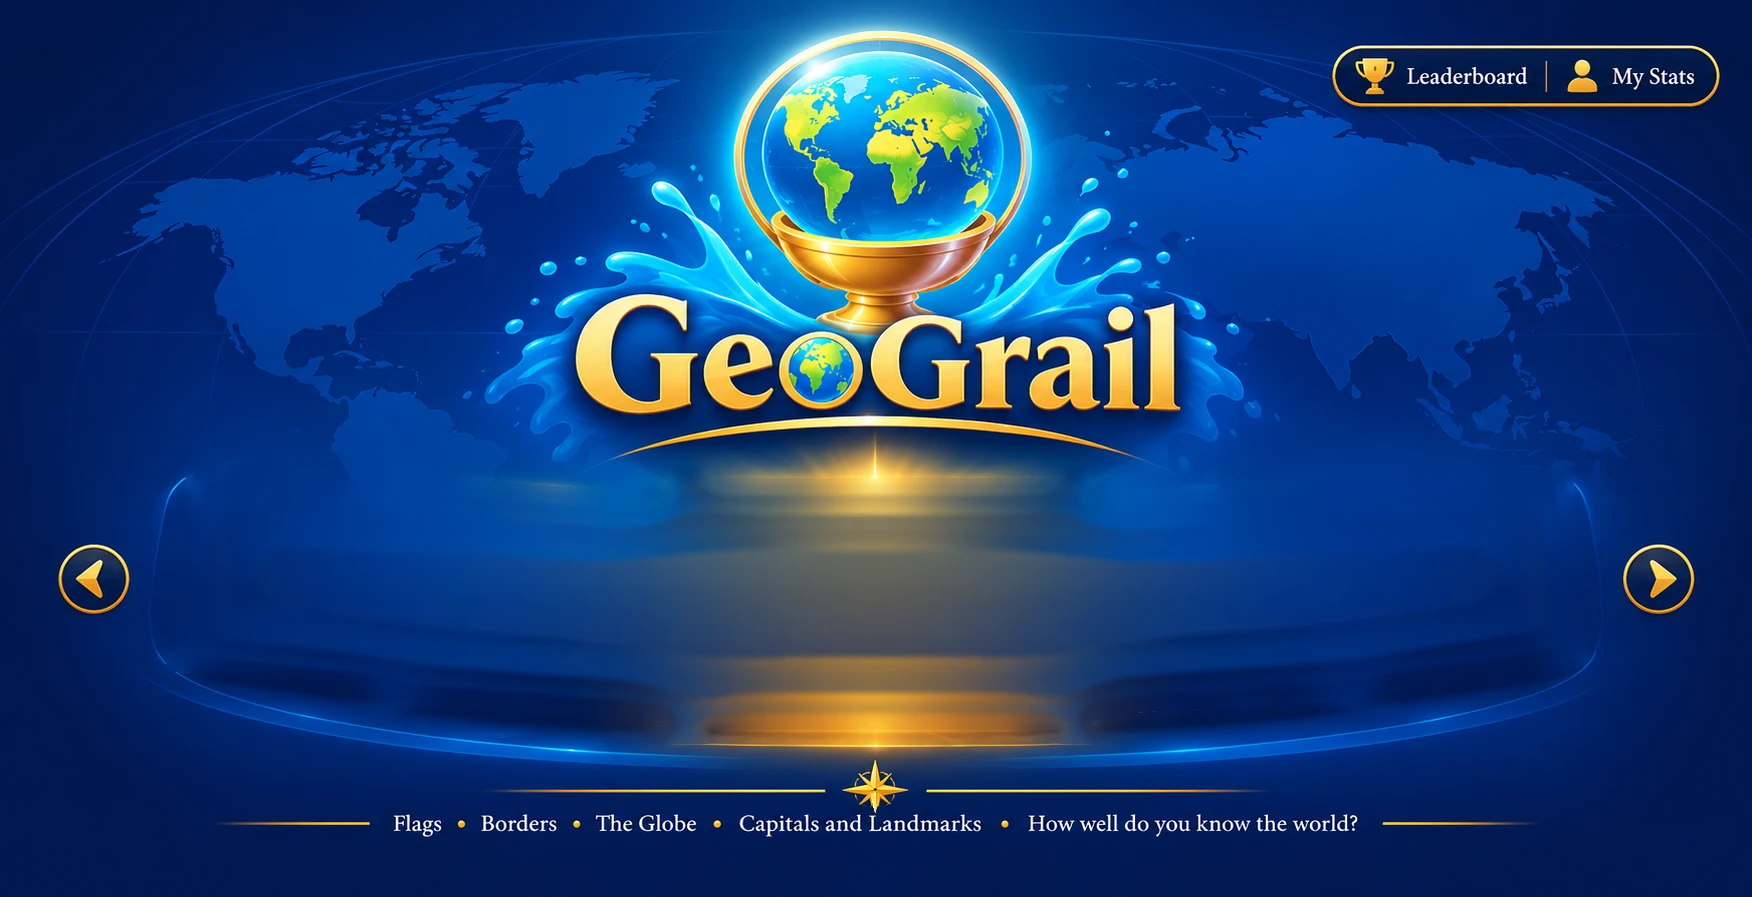
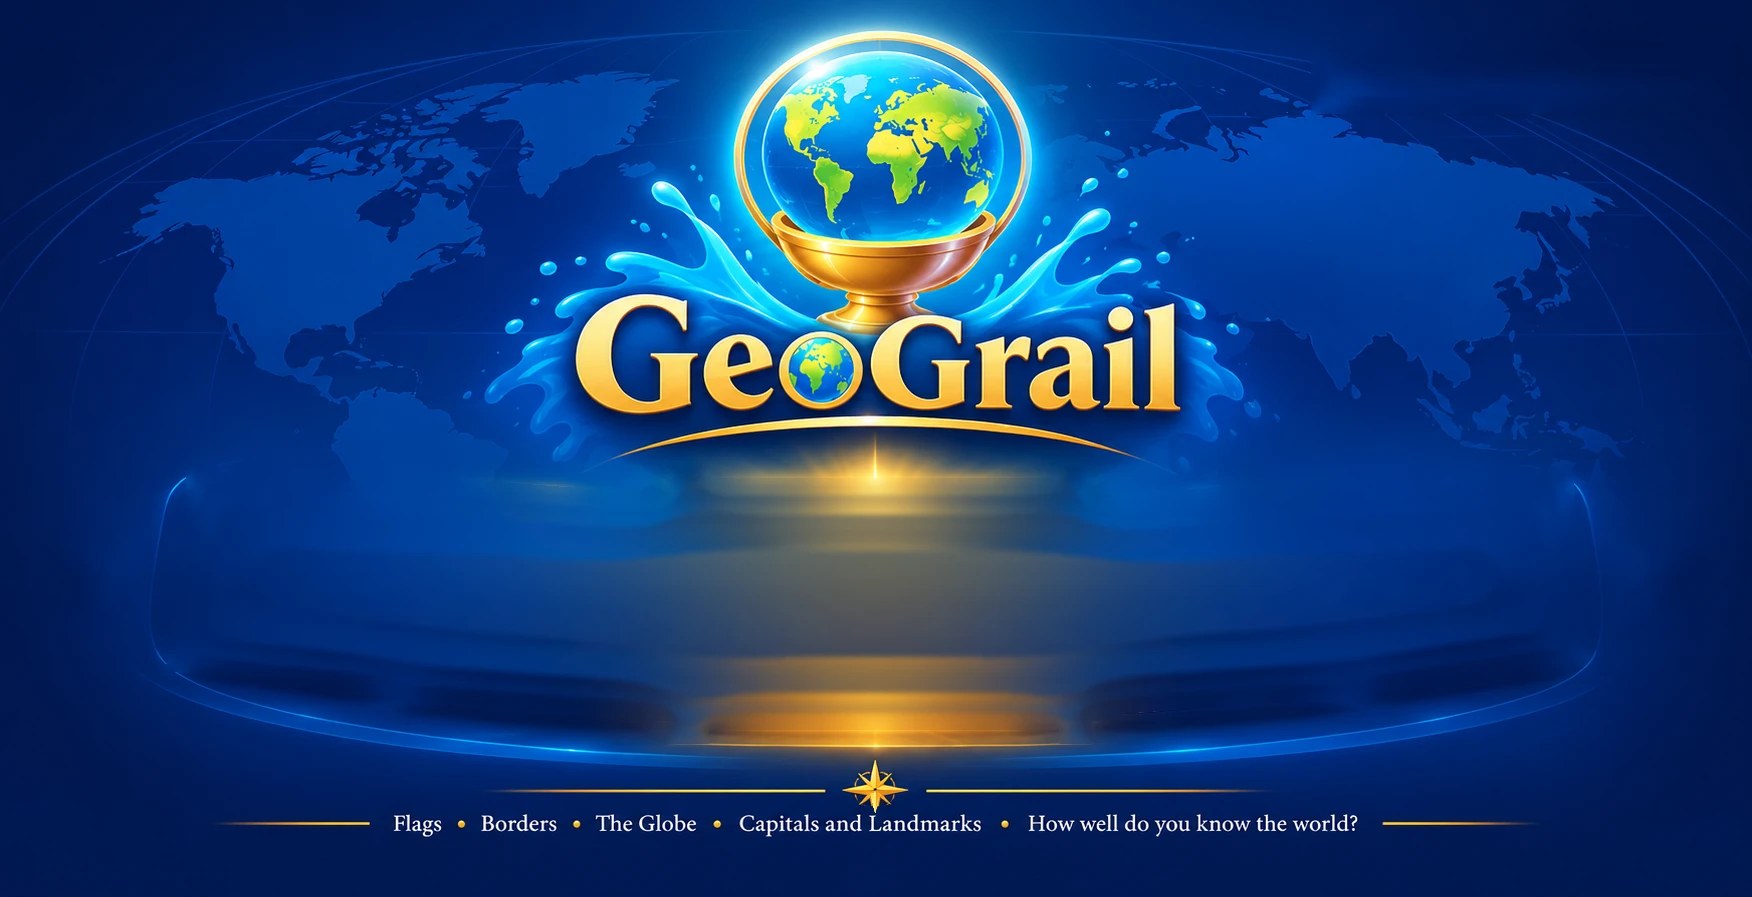
Title wheel: working arrows, Leaderboard and My Stats rebuilt in code with hover and press
The wheel layer covered the whole stage and swallowed their clicks; it now
passes clicks through except on the cards. The painted pill and arrows are
erased from the background and drawn as real buttons.

Changed region(s): [[0.7397, 0.0312, 0.9863, 0.1249], [0.9247, 0.5931, 0.9863, 0.6867], [0.0308, 0.5931, 0.0925, 0.6867]]

diff --git a/src/components/TitleWheel.tsx b/src/components/TitleWheel.tsx
@@ -30,7 +30,6 @@ const SLOTS: Record<number, { x: number; y: number; s: number }> = {
 /** Signed distance from the front slot, wrapped into -2..2. */
 const offsetOf = (i: number, active: number) => ((((i - active) % N) + N + 2) % N) - 2;
 
-const hit = "absolute cursor-pointer rounded-full focus-visible:outline-offset-2";
 
 export default function TitleWheel({
   onSelect,
@@ -117,16 +116,71 @@ export default function TitleWheel({
       />
       <h1 className="sr-only">GeoGrail</h1>
 
-      {/* The gold pill in the artwork: Leaderboard and My Stats */}
-      <a href="/leaderboard" aria-label="Leaderboard" className={`${hit} left-[76.4%] top-[5.2%] h-[6.6%] w-[11.8%]`} />
-      <button onClick={stats} aria-label={isSignedIn ? "My stats" : "Sign in to see my stats"} className={`${hit} left-[88.3%] top-[5.2%] h-[6.6%] w-[9.9%]`} />
+      {/* Leaderboard and My Stats: a gold-rimmed navy pill */}
+      <div className="title-pill absolute left-[76.05%] top-[5.05%] z-30 flex h-[6.65%] w-[22.15%] rounded-full p-[0.17cqw]">
+        <div className="flex h-full w-full items-center rounded-full bg-[radial-gradient(120%_160%_at_50%_0%,#123279_0%,#0A1D57_55%,#06123F_100%)] shadow-[inset_0_1px_0_rgba(255,226,150,0.25),inset_0_-6px_12px_rgba(0,0,0,0.35)]">
+          <a href="/leaderboard" className="pill-half group flex h-full flex-[1.12] items-center justify-center gap-[0.75cqw] rounded-l-full">
+            <svg viewBox="0 0 24 24" aria-hidden className="pill-icon h-[2.45cqw] w-[2.45cqw]">
+              <defs>
+                <linearGradient id="gold-t" x1="0" y1="0" x2="0" y2="1">
+                  <stop offset="0" stopColor="#FFE9A6" />
+                  <stop offset="0.5" stopColor="#F4B93A" />
+                  <stop offset="1" stopColor="#C9821C" />
+                </linearGradient>
+              </defs>
+              <path fill="url(#gold-t)" d="M6 3h12v2h3v3a5 5 0 0 1-4.6 5A5.5 5.5 0 0 1 13 15.9V18h3v2.5H8V18h3v-2.1A5.5 5.5 0 0 1 7.6 13 5 5 0 0 1 3 8V5h3V3Zm0 4H5v1a3 3 0 0 0 1.4 2.5A7 7 0 0 1 6 8V7Zm12 0v1c0 .9-.1 1.7-.4 2.5A3 3 0 0 0 19 8V7h-1Z" />
+              <rect x="7" y="20.5" width="10" height="1.8" rx=".6" fill="#B87618" />
+            </svg>
+            <span className="pill-text font-serif text-[1.42cqw] leading-none text-[#F6F1E4]">Leaderboard</span>
+          </a>
+          <span aria-hidden className="h-[46%] w-px bg-gradient-to-b from-transparent via-[#E9B949] to-transparent" />
+          <button
+            onClick={stats}
+            aria-label={isSignedIn ? "My stats" : "Sign in to see my stats"}
+            className="pill-half group flex h-full flex-1 cursor-pointer items-center justify-center gap-[0.75cqw] rounded-r-full"
+          >
+            <svg viewBox="0 0 24 24" aria-hidden className="pill-icon h-[2.3cqw] w-[2.3cqw]">
+              <circle cx="12" cy="7.5" r="4.6" fill="url(#gold-t)" />
+              <path fill="url(#gold-t)" d="M3.5 21.5c0-4.6 3.8-8 8.5-8s8.5 3.4 8.5 8v.5h-17v-.5Z" />
+            </svg>
+            <span className="pill-text font-serif text-[1.42cqw] leading-none text-[#F6F1E4]">My Stats</span>
+          </button>
+        </div>
+      </div>
 
-      {/* The painted arrows either side of the wheel */}
-      <button onClick={() => step(-1)} aria-label="Previous game mode" className={`${hit} left-[3.2%] top-[60.2%] h-[8.4%] w-[4.3%]`} />
-      <button onClick={() => step(1)} aria-label="Next game mode" className={`${hit} left-[92.4%] top-[60.2%] h-[8.4%] w-[4.3%]`} />
+      {/* Gold arrows either side of the wheel */}
+      {([-1, 1] as const).map((d) => (
+        <button
+          key={d}
+          onClick={() => step(d)}
+          aria-label={d < 0 ? "Previous game mode" : "Next game mode"}
+          className={`title-arrow group absolute top-[60.75%] z-30 aspect-square w-[4.05%] cursor-pointer rounded-full p-[0.28cqw] ${
+            d < 0 ? "left-[3.37%]" : "left-[92.58%]"
+          }`}
+        >
+          <span className="flex h-full w-full items-center justify-center rounded-full bg-[radial-gradient(circle_at_40%_30%,#173A86_0%,#0B2160_60%,#071644_100%)] shadow-[inset_0_2px_4px_rgba(255,220,140,0.15),inset_0_-4px_8px_rgba(0,0,0,0.45)]">
+            <svg viewBox="0 0 100 100" aria-hidden className={`arrow-head h-[60%] w-[60%] ${d > 0 ? "-scale-x-100" : ""}`}>
+              <defs>
+                <linearGradient id={`gold-a${d}`} x1="0" y1="0" x2="0" y2="1">
+                  <stop offset="0" stopColor="#FFE7A0" />
+                  <stop offset="0.55" stopColor="#F2B53A" />
+                  <stop offset="1" stopColor="#D08A1E" />
+                </linearGradient>
+              </defs>
+              <path
+                fill={`url(#gold-a${d})`}
+                stroke="#B9781A"
+                strokeWidth="2"
+                strokeLinejoin="round"
+                d="M74 12c4-3 9 1 7 6L66 50l15 32c2 5-3 9-7 6L18 54c-3-2-3-6 0-8L74 12Z"
+              />
+            </svg>
+          </span>
+        </button>
+      ))}
 
       {/* The wheel */}
-      <div role="listbox" aria-label="Game modes" className="absolute inset-0">
+      <div role="listbox" aria-label="Game modes" className="pointer-events-none absolute inset-0">
         {CARDS.map((c, i) => {
           const o = offsets[i];
           const slot = SLOTS[o];
@@ -147,7 +201,7 @@ export default function TitleWheel({
                 zIndex: 10 - Math.abs(o) * 2,
                 transform: `translate(-50%, -50%) scale(${slot.s})`,
               }}
-              className="wheel-card group absolute block aspect-[1.3] w-[18.6%] cursor-pointer rounded-[1.7cqw] transition-[left,top,transform] duration-500 ease-[cubic-bezier(0.22,1,0.36,1)] motion-reduce:transition-none"
+              className="wheel-card group pointer-events-auto absolute block aspect-[1.3] w-[18.6%] cursor-pointer rounded-[1.7cqw] transition-[left,top,transform] duration-500 ease-[cubic-bezier(0.22,1,0.36,1)] motion-reduce:transition-none"
             >
               {/* Gold frame around a painted picture, the mode's name on a navy banner */}
               <span

diff --git a/src/app/globals.css b/src/app/globals.css
@@ -135,3 +135,31 @@ main {
 @media (prefers-reduced-motion: reduce) {
   .wheel-card, .wheel-front { animation: none; }
 }
+
+/* Title pill and arrows: gold rims that warm up on hover and give on press */
+.title-pill,
+.title-arrow {
+  background: linear-gradient(160deg, #fff2bf 0%, #f1c454 30%, #b97b1f 60%, #f6d273 85%, #c48a2a 100%);
+  box-shadow: 0 6px 16px rgba(0, 6, 35, 0.55);
+  transition: box-shadow 250ms ease, transform 200ms ease, filter 250ms ease;
+}
+.title-pill:hover,
+.title-arrow:hover {
+  box-shadow: 0 0 0 1px rgba(255, 233, 160, 0.5), 0 0 18px 3px rgba(255, 190, 60, 0.45), 0 8px 18px rgba(0, 6, 35, 0.6);
+  filter: brightness(1.08);
+}
+.title-arrow:hover { transform: scale(1.08); }
+.title-arrow:active { transform: scale(0.94); }
+.title-arrow .arrow-head { transition: transform 200ms ease; }
+.title-arrow:hover .arrow-head { transform: translateX(-6%); }
+.title-arrow:hover .arrow-head.-scale-x-100 { transform: scaleX(-1) translateX(-6%); }
+.pill-half { transition: background-color 200ms ease; }
+.pill-half:hover { background-color: rgba(255, 210, 110, 0.1); }
+.pill-half:active { background-color: rgba(255, 210, 110, 0.18); }
+.pill-icon { transition: transform 250ms cubic-bezier(0.34, 1.56, 0.64, 1); }
+.pill-half:hover .pill-icon { transform: translateY(-8%) scale(1.12) rotate(-6deg); }
+.pill-text { transition: color 200ms ease; }
+.pill-half:hover .pill-text { color: #ffe7a6; }
+@media (prefers-reduced-motion: reduce) {
+  .title-arrow:hover, .pill-half:hover .pill-icon, .title-arrow:hover .arrow-head { transform: none; }
+}
